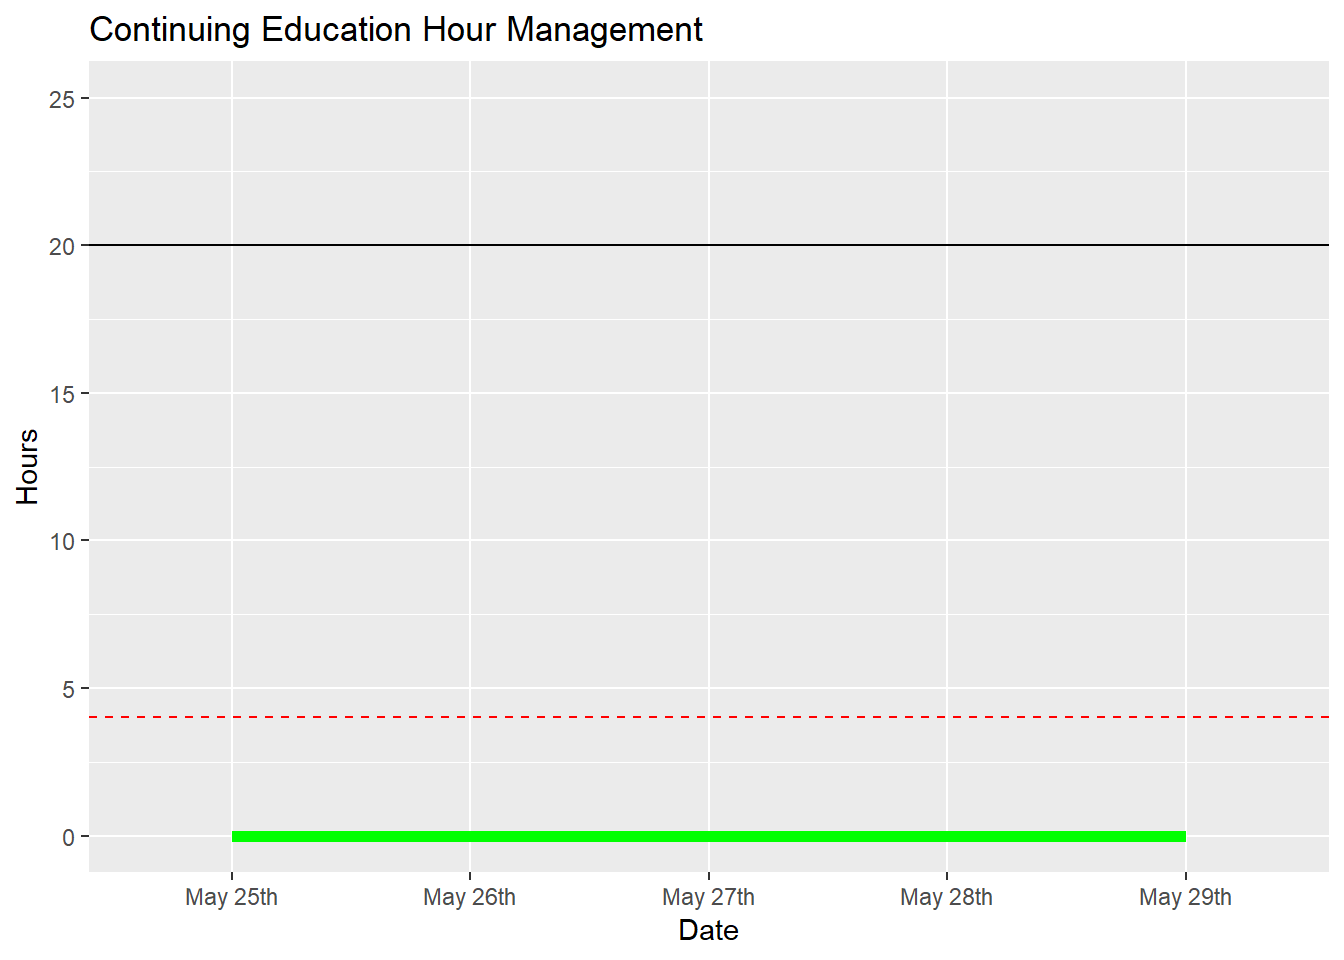
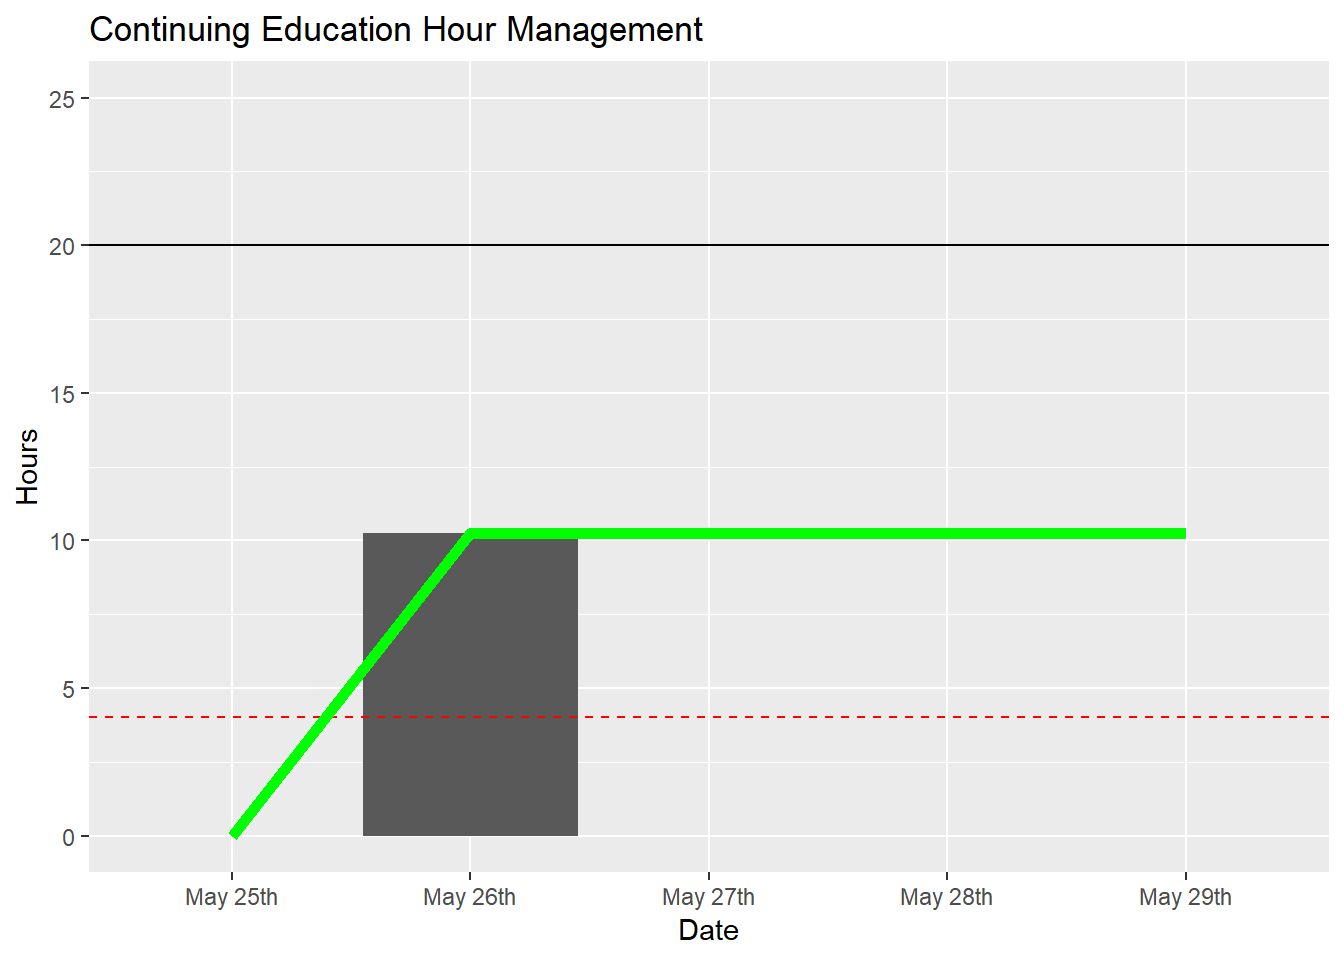
Update Continuing Education Schedule post

Changed region(s): [[0.1562, 0.5312, 0.875, 0.875]]

diff --git a/2019/05/25/continuing-education/index.html b/2019/05/25/continuing-education/index.html
@@ -84,7 +84,7 @@ numberOfCEsCompleted              &lt;- 0
 minimumNumberOfCEsRequired        &lt;- 20
 MinimumAmountOfCEsCompletedPerDay &lt;- ceiling((minimumNumberOfCEsRequired - numberOfCEsCompleted) / (daysRemaining - dayBuffer))</code></pre>
 <p>The following array will be used to track my progress throughout the remaining 5 days. I must complete 4 hours each day. The values within the array will be changed as the day changes.</p>
-<pre class="r"><code>ActualCEsCompletedPerDay &lt;- c(0, 0, 0, 0, 0)
+<pre class="r"><code>ActualCEsCompletedPerDay &lt;- c(0, 10.25, 0, 0, 0)
 
 dataFrame &lt;- data.frame(
   Date = paste(&quot;May &quot;,c(25:(31-2)),&quot;th&quot;, sep=&quot;&quot;),
@@ -104,28 +104,28 @@ kable(dataFrame, caption=&quot;Progress&quot;)</code></pre>
 <tbody>
 <tr class="odd">
 <td align="left">May 25th</td>
-<td align="right">0</td>
-<td align="right">0</td>
+<td align="right">0.00</td>
+<td align="right">0.00</td>
 </tr>
 <tr class="even">
 <td align="left">May 26th</td>
-<td align="right">0</td>
-<td align="right">0</td>
+<td align="right">10.25</td>
+<td align="right">10.25</td>
 </tr>
 <tr class="odd">
 <td align="left">May 27th</td>
-<td align="right">0</td>
-<td align="right">0</td>
+<td align="right">0.00</td>
+<td align="right">10.25</td>
 </tr>
 <tr class="even">
 <td align="left">May 28th</td>
-<td align="right">0</td>
-<td align="right">0</td>
+<td align="right">0.00</td>
+<td align="right">10.25</td>
 </tr>
 <tr class="odd">
 <td align="left">May 29th</td>
-<td align="right">0</td>
-<td align="right">0</td>
+<td align="right">0.00</td>
+<td align="right">10.25</td>
 </tr>
 </tbody>
 </table>
